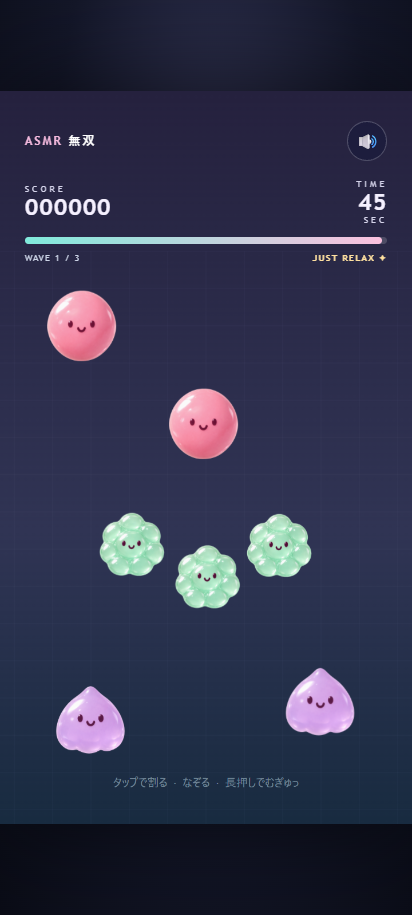
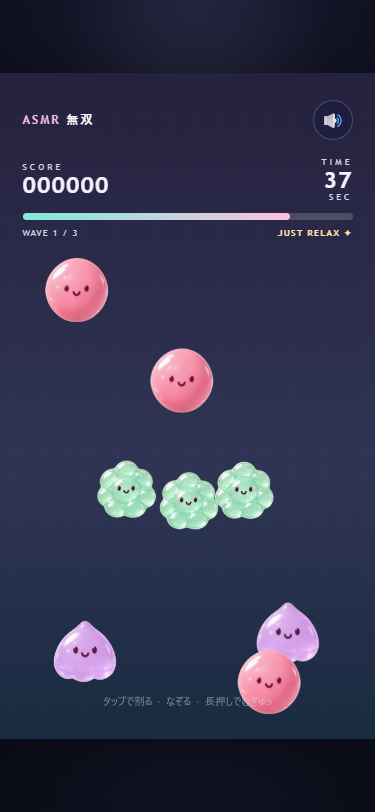
fix: keep tactile enemies in play and connect bubble chains

diff --git a/game.js b/game.js
@@ -33,10 +33,12 @@
   let uid = 1, lastKill = -5, spawnClock = 0, bossSpawned = false, bossDefeated = false;
   let wave = 1, freeze = 0, slow = 0, punch = 0, shake = 0, lastFrame = 0, soundOn = true, hudClock = 0;
   let lastStroke = { hits: 0, pitches: [] };
+  let trace = null;
   function createEnemy(type, x, y, stationary = false) {
     const r = art.radii[type];
+    const heading = rnd(0, TAU), speed = rnd(10, 22);
     return { id: uid++, type, x, y, r, stage: 0, act: type === 'boss' ? 1 : 0, layer: 0,
-      vx: stationary ? 0 : rnd(-9, 9), vy: stationary ? 0 : -rnd(28, 48), phase: rnd(0, TAU),
+      vx: 0, vy: 0, heading, speed, phase: rnd(0, TAU), motionTime: 0, opening: false, touched: false,
       jiggle: 0, velocity: 0, pressure: 0, glint: 0, crackFlash: 0, crack: null, age: stationary ? 1 : 0, stationary, dead: false, queued: false, entering: false, owner: null };
   }
   function addEnemy(type, x, y, stationary = false) { const e = createEnemy(type, x, y, stationary); enemies.push(e); return e; }
@@ -105,15 +107,17 @@
   function chainFrom(e) {
     const chain = [e]; let at = clock;
     for (let n = 0; n < chain.length; n++) for (const other of enemies) {
-      if (other.type === 'bubble' && !other.dead && !other.queued && other !== e && Math.hypot(other.x - chain[n].x, other.y - chain[n].y) < 155) {
+      if (other.type === 'bubble' && !other.dead && !other.queued && other !== e && Math.hypot(other.x - chain[n].x, other.y - chain[n].y) <= 3.6 * chain[n].r) {
         at += rnd(.04, .07); queue(other, at, 'chain', Math.min(12, chain.length * 2)); chain.push(other);
       }
     }
+    if (trace) trace.chains.push({ at: clock, ids: chain.map(e => e.id) });
   }
   function endStage(e) { return e.type === 'wax' ? 3 : e.type === 'ice' || e.type === 'jelly' ? 2 : e.type === 'boss' ? 13 : 1; }
   // Sole damage transition: art, debris, sound, ripple and hit-stop share this call.
   function fracture(e, stage, cause = 'tap', pitch = 0, contact = e) {
     if (!e || e.dead || stage <= e.stage) return false;
+    e.touched = true;
     const tap = local(e, contact.x, contact.y);
     const before = { ...e };
     e.stage = Math.min(stage, endStage(e)); e.queued = false; e.glint = .06; e.velocity = -5; e.jiggle = -.12;
@@ -140,6 +144,7 @@
     if (killed) {
       if (e.type !== 'jelly') flashes.push({ ...before, glint: .06 });
       e.dead = true; e.owner = null; e.pressure = 0; award(e);
+      if (trace) trace.destroyed.push({ id: e.id, at: clock, cause, type: e.type });
       if (['wax', 'jelly', 'boss'].includes(e.type)) {
         const duration = e.type === 'wax' ? JUICE.waxBulge : e.type === 'jelly' ? JUICE.jellyPuddle : JUICE.bossBulge;
         deathBeats.push({ ...e, age: 0, duration, phase: e.type === 'jelly' ? 'puddle' : 'core-bulge' });
@@ -165,7 +170,7 @@
   function targetAt(x, y) {
     if (y < PLAY_TOP) return null;
     for (let i = enemies.length - 1; i >= 0; i--) {
-      const e = enemies[i]; if (!e.dead && !e.queued && !e.entering && e.y - e.r >= PLAY_TOP && inside(e, x, y)) return e;
+      const e = enemies[i]; if (!e.dead && !e.queued && !e.entering && inside(e, x, y)) return e;
     }
     return null;
   }
@@ -196,7 +201,7 @@
       if (e.dead || e.queued || e.entering || p.hit.has(e.id)) continue;
       const a = local(e, x1, y1), b = local(e, x2, y2), dx = b.x - a.x, dy = b.y - a.y;
       const t = clamp((-a.x * dx - a.y * dy) / (dx * dx + dy * dy || 1), 0, 1);
-      if (e.y - e.r >= PLAY_TOP && Math.hypot(a.x + t * dx, a.y + t * dy) <= e.r * .98) hits.push({ e, t });
+      if (y1 + t * (y2 - y1) >= PLAY_TOP && Math.hypot(a.x + t * dx, a.y + t * dy) <= e.r * .98) hits.push({ e, t });
     }
     hits.sort((a, b) => a.t - b.t);
     for (const { e, t } of hits) { const pitch = pentatonic(p.hit.size); if (strike(e, 'slash', pitch, { x: x1 + (x2 - x1) * t, y: y1 + (y2 - y1) * t })) { p.hit.add(e.id); p.pitches.push(pitch); p.lastHit = { x: e.x, y: e.y - e.r }; } }
@@ -207,7 +212,7 @@
     const point = pos(ev), target = targetAt(point.x, point.y);
     const p = { id: ev.pointerId, x: point.x, y: point.y, startX: point.x, startY: point.y, start: clock, drag: false, done: false,
       target: target && target.owner === null ? target : null, hit: new Set(), pitches: [], creak: null, stroke: { points: [{ x: point.x, y: point.y, at: clock }], life: .4 } };
-    if (p.target) p.target.owner = p.id; pointers.set(p.id, p);
+    if (p.target) { p.target.owner = p.id; p.target.touched = true; } pointers.set(p.id, p);
   }
   function move(ev) {
     const p = pointers.get(ev.pointerId); if (state !== 'play' || !p) return;
@@ -242,10 +247,13 @@
     cancelPointers(); enemies.length = particles.length = texts.length = ripples.length = strokes.length = pending.length = flashes.length = deathBeats.length = 0;
     random = ASMR.AudioDSP.seeded(seed); elapsed = clock = score = kills = combo = maxCombo = 0;
     uid = 1; lastKill = -5; spawnClock = 1; bossSpawned = bossDefeated = false; wave = 1;
+    trace = null;
     freeze = slow = punch = shake = bloom = lastFrame = 0; lastStroke = { hits: 0, pitches: [] }; state = 'play';
     $('menu').classList.add('hidden'); $('result').classList.add('hidden'); $('hud').classList.remove('hidden');
-    addEnemy('wax', 355, 590); addEnemy('wax', 140, 425); addEnemy('bubble', 230, 805); addEnemy('bubble', 360, 860);
-    addEnemy('bubble', 490, 805); addEnemy('jelly', 160, 1110); addEnemy('jelly', 560, 1080); refreshHUD();
+    addEnemy('wax', 355, 590); addEnemy('wax', 140, 425); addEnemy('bubble', 253, 805); addEnemy('bubble', 360, 824);
+    addEnemy('bubble', 467, 805); addEnemy('jelly', 160, 1110); addEnemy('jelly', 560, 1080);
+    for (const e of enemies) e.opening = true;
+    refreshHUD();
   }
   function finish() {
     if (state !== 'play') return; state = 'result'; cancelPointers(); pending.length = texts.length = strokes.length = 0; freeze = slow = 0;
@@ -277,7 +285,22 @@
     for (const p of pointers.values()) { audio.stop(p.creak); p.creak = null; }
   });
   function compact(list, tick) { let n = 0; for (let i = 0; i < list.length; i++) if (tick(list[i])) list[n++] = list[i]; list.length = n; }
-  function spawnDrifter() {
+  function spawnBubbleGroup(slots) {
+    const r = art.radii.bubble, count = Math.min(slots, Math.floor(rnd(3, 6)));
+    const radius = 1.85 * r / (2 * Math.sin(Math.PI / count)), angle = rnd(0, TAU);
+    const offsets = Array.from({ length: count }, (_, i) => ({ x: Math.cos(angle + i * TAU / count) * radius, y: Math.sin(angle + i * TAU / count) * radius }));
+    for (let attempt = 0; attempt < 36; attempt++) {
+      const x = rnd(r + radius + 12, W - r - radius - 12), y = rnd(430 + radius, 1150 - radius);
+      if (offsets.some(p => enemies.some(e => !e.dead && Math.hypot(x + p.x - e.x, y + p.y - e.y) < .85 * (r + e.r)))) continue;
+      // A shared heading keeps a newly arrived cluster together as it wanders.
+      const heading = rnd(0, TAU), speed = rnd(10, 22), phase = rnd(0, TAU);
+      for (const p of offsets) { const e = addEnemy('bubble', x + p.x, y + p.y); e.heading = heading; e.speed = speed; e.phase = phase; }
+      return true;
+    }
+    return false;
+  }
+  function spawnDrifter(slots) {
+    if (slots >= 3 && rnd(0, 1) < .85 && spawnBubbleGroup(slots)) return;
     const types = bossDefeated ? ['bubble', 'jelly'] : wave === 1 ? ['wax', 'bubble', 'jelly'] : ['wax', 'bubble', 'jelly', 'ice'];
     const type = types[Math.floor(rnd(0, types.length))], side = rnd(0, 1), r = art.radii[type];
     let best, clearance = -Infinity;
@@ -288,8 +311,37 @@
       if (gap > clearance) { clearance = gap; best = { x, y }; }
     }
     if (clearance < 0) return;
-    const e = addEnemy(type, best.x, best.y);
-    if (side >= .6) { e.vx = side < .8 ? rnd(10, 22) : -rnd(10, 22); e.vy = -rnd(14, 26); }
+    addEnemy(type, best.x, best.y);
+  }
+  function openingRest(e) { return e.opening && !e.touched && elapsed < 8; }
+  function wander(e, dt) {
+    if (e.stationary || e.owner !== null || !dt) return;
+    const t = e.motionTime, rest = openingRest(e);
+    e.motionTime += dt;
+    // Integrate the bob's difference, not an accumulated displacement. Opening
+    // toys stay within a few units of their starting position until touched.
+    const bobX = 3 * (Math.sin(e.motionTime * .9 + e.phase) - Math.sin(t * .9 + e.phase));
+    const bobY = 4 * (Math.sin(e.motionTime * 1.2 + e.phase) - Math.sin(t * 1.2 + e.phase));
+    const minY = PLAY_TOP + e.r * .6, maxY = H - e.r * .4, margin = 100;
+    const edge = (p, low, high) => 36 * (Math.max(0, 1 - (p - low) / margin) ** 2 - Math.max(0, 1 - (high - p) / margin) ** 2);
+    let tx = 0, ty = 0;
+    if (!rest) {
+      const heading = e.heading + .4 * Math.sin(t * .18 + e.phase);
+      tx = Math.cos(heading) * e.speed + edge(e.x, e.r, W - e.r);
+      ty = Math.sin(heading) * e.speed + edge(e.y, minY, maxY);
+      for (const other of enemies) {
+        if (other === e || other.dead || other.type === 'boss') continue;
+        const dx = e.x - other.x, dy = e.y - other.y, distance = Math.hypot(dx, dy), gap = .85 * (e.r + other.r) - distance;
+        if (gap > 0) { const push = Math.min(35, gap * 2); tx += dx / (distance || 1) * push; ty += dy / (distance || 1) * push; }
+      }
+    }
+    const ease = 1 - Math.exp(-dt * 3);
+    e.vx += (tx - e.vx) * ease; e.vy += (ty - e.vy) * ease;
+    // Outward speed tends smoothly to zero at the bounds while steering turns
+    // inward. No position clamps, hard bounces, wrapping, or on-screen culling.
+    const step = (delta, p, low, high) => delta * Math.min(1, Math.max(0, delta < 0 ? p - low : high - p) / 50);
+    e.x += step(e.vx * dt + bobX, e.x, e.r, W - e.r);
+    e.y += step(e.vy * dt + bobY, e.y, minY, maxY);
   }
   function update(dt) {
     clock += dt; const stopped = freeze > 0;
@@ -335,20 +387,13 @@
         const t = clamp((clock - e.entryStart) / (e.entryEnd - e.entryStart), 0, 1);
         e.y = 515 + (660 - 515) * t * t;
         if (t === 1) { e.entering = false; e.y = 660; e.jiggle = -.30; e.velocity = 2; audio.play('boss_thud'); ripple(e, true); requestStop(.06, true); }
-      } else if (e.owner === null && e.type !== 'boss') { e.x += e.vx * enemySim; e.y += e.vy * enemySim; }
+      } else if (e.type !== 'boss') wander(e, enemySim);
       e.velocity += (-170 * e.jiggle - 13 * e.velocity) * enemySim;
       e.jiggle = clamp(e.jiggle + e.velocity * enemySim, -.40, .30); e.glint = Math.max(0, e.glint - dt); e.crackFlash = Math.max(0, e.crackFlash - dt);
     }
-    // Gentle lateral separation; upward drift remains continuous and predictable.
-    for (let i = 0; i < enemies.length; i++) for (let j = i + 1; j < enemies.length; j++) {
-      const a = enemies[i], b = enemies[j];
-      if (a.dead || b.dead || a.stationary || b.stationary || a.owner !== null || b.owner !== null) continue;
-      const dy = a.y - b.y, distance = Math.hypot(a.x - b.x, dy), gap = .85 * (a.r + b.r) - distance;
-      if (gap > 0) { const push = Math.min(gap * .5, enemySim * 35) * (a.x > b.x ? 1 : -1); a.x = clamp(a.x + push, a.r, W - a.r); b.x = clamp(b.x - push, b.r, W - b.r); }
-    }
-    compact(enemies, e => !e.dead && (e.type === 'boss' || (e.y > PLAY_TOP + e.r && e.y < H + 150 && e.x > -150 && e.x < W + 150)));
+    compact(enemies, e => !e.dead);
     spawnClock -= dt; const cap = bossDefeated ? 6 : wave === 1 ? 8 : wave === 2 ? 10 : 12;
-    if ((!bossSpawned || bossDefeated) && spawnClock <= 0 && live < cap) { spawnDrifter(); spawnClock = bossDefeated ? 1.2 : .7; }
+    if ((!bossSpawned || bossDefeated) && spawnClock <= 0 && live < cap) { spawnDrifter(cap - live); spawnClock = bossDefeated ? 1.2 : .7; }
     hudClock -= dt; if (hudClock <= 0) { refreshHUD(); hudClock = .1; }
   }
   // Cached background/gradients; no per-object shadows in the render loop.
@@ -439,7 +484,7 @@
     if (!artReady) return;
     const sprite = art.get(e), { sx, sy, angle } = shape(e), pressure = e.pressure;
     ctx.save(); ctx.translate(e.x, e.y); ctx.rotate(angle); ctx.scale(sx, sy);
-    if (e.type !== 'boss') ctx.globalAlpha = clamp((e.y - PLAY_TOP - e.r) / 40, 0, 1) * Math.min(1, e.age / .18);
+    if (e.type !== 'boss') ctx.globalAlpha = Math.min(1, e.age / .18);
     if (flashOnly) ctx.globalAlpha *= e.glint / .06;
     if (sprite) {
       if (flashOnly) {
@@ -556,6 +601,7 @@
     update(dt);
     if (profiling) { window.__asmrTest.heavyScene(); profileMinEnemies = Math.min(profileMinEnemies, enemies.filter(e => !e.dead).length); }
     draw();
+    if (trace && trace.frames.length < 10000) trace.frames.push({ at: clock, elapsed, enemies: enemies.filter(e => !e.dead).map(e => ({ id: e.id, type: e.type, x: e.x, y: e.y, r: e.r })) });
     if (profiling && frameTimes.length < 4000) frameTimes.push(performance.now() - before);
     requestAnimationFrame(frame);
   }
@@ -567,9 +613,10 @@
       popups: texts.map(t => ({ word: t.word, size: t.size, life: t.life, ...popupBox(t) })),
       particleFx: [...new Set(particles.map(p => p.fx))], softRings: ripples.filter(r => r.soft).length,
       enemies: enemies.filter(e => !e.dead).map(e => ({ id: e.id, type: e.type, stage: e.stage, act: e.act, layer: e.layer, hp: endStage(e) - e.stage,
-        x: e.x, y: e.y, r: e.r, sprite: art.key(e), pressure: e.pressure, jiggle: e.jiggle, glint: e.glint, crack: e.crack, crackFlash: e.crackFlash, entering: e.entering })) }),
+        x: e.x, y: e.y, r: e.r, sprite: art.key(e), pressure: e.pressure, jiggle: e.jiggle, glint: e.glint, crack: e.crack, crackFlash: e.crackFlash, entering: e.entering, queued: e.queued, resting: openingRest(e) })) }),
     start: begin, hitAt: (x, y) => strike(targetAt(x, y), 'tap', 0, { x, y }),
-    spawn: (type, x, y) => { if (!DRAW[type] || type === 'boss') throw new Error('Use skipTo(32) for the boss'); return addEnemy(type, x, y, true).id; },
+    spawn: (type, x, y, stationary = true) => { if (!DRAW[type] || type === 'boss') throw new Error('Use skipTo(32) for the boss'); return addEnemy(type, x, y, stationary).id; },
+    trace: active => { if (active) trace = { frames: [], destroyed: [], chains: [] }; else { const result = trace; trace = null; return result; } },
     clear: () => { cancelPointers(); enemies.length = pending.length = particles.length = texts.length = ripples.length = strokes.length = flashes.length = deathBeats.length = 0; freeze = slow = bloom = 0; spawnClock = 60; },
     skipTo: seconds => { elapsed = clamp(seconds, 0, TOTAL); checkTime(); refreshHUD(); }, end: finish, audioStats: () => audio.stats(),
     testAudioBurst: () => { for (const name of Object.keys(ASMR.AudioDSP.SPECS)) for (let i = 0; i < 6; i++) audio.play(name); }, cancelInput: cancelPointers,

diff --git a/README.md b/README.md
@@ -15,10 +15,10 @@
 ## 素材と45秒の流れ
 
 - ロウ：3タップ。ツヤのある丸い殻 → 白い亀裂 → 殻が落ちてクリームの芯 → 芯が90ms膨らんで飛散。長押しなら一度で潰せる。
-- プチプチ：1タップで破裂。155px以内でつながる泡を40–70ms刻みで連鎖させる。
+- プチプチ：1タップで破裂。中心間距離3.6×半径（泡58なら208.8）以内でつながる泡をBFSでたどり、40–70ms刻みで連鎖させる。3体以上の空きがある追加出現では85%の確率で3〜5体の密な群れを試みる。隣同士は直径の92.5%間隔、既存の敵とは半径の和の85%以上を空け、空きがなければ通常の単体出現を試す。
 - ゼリー：低いしずく形。最初のタップでバネ振動とむにゅ音、次のタップか長押しで潰れる。
 - 氷：角ばった結晶。1タップで白い亀裂、2タップで破片と響き。
-- 小敵は最大8 / 10 / 12体。半径はロウ64 / 泡58 / ゼリー62 / 氷60（720×1280座標）。開始時から下部にも配置し、追加は下部 `y=990–1150` または左右 `y=440–1150` に短くフェードインして上昇する。空き位置を選び、近づいた小敵を穏やかに左右へ離す。プレイ領域の上端は `y=300`、HUD手前でフェードアウトする。
+- 小敵は最大8 / 10 / 12体。半径はロウ64 / 泡58 / ゼリー62 / 氷60（720×1280座標）。開幕7体は最初の8秒、または触れるまで小さく揺れるだけで待つ。その後は10〜22 u/sを基準に揺れながら漂い、端と近隣の敵を見て滑らかに進路を変える。中心の範囲は `x=[r,720−r]`、`y=[300+0.6r,1280−0.4r]`。上端でも透明化・削除されず、タップできる。密度は出現上限で制御し、未破壊の敵は退場させない。単体の追加は下部 `y=990–1150` または左右 `y=440–1150`、泡の群れはプレイ領域の空きに短くフェードインする。
 - 32秒でボス。残る小敵を得点つきの連続ポップで消し、追加出現を停止。半径190、中央 `y=660` へ`y=515` からHUD下で短く落下し、着地で潰れと低音＋中域のthud。殻3層（各3ヒット）→ 芯（4タップまたは長押し1回）→ 大きな解放。殻への長押しは1ヒット。
 - 撃破後は軽いボーナス敵。45秒で結果へ進む。ボス未撃破の減点はない。
 
@@ -66,8 +66,9 @@ node tools/render-sfx.cjs
 python tools/analyze_sfx.py assets_audio_preview screenshots/sfx_spectrograms.png
 ```
 
-- `npm test` は **SFXゲート → smoke → perf** の順で実行する。Node + Playwright、`chromium.launch({ channel: 'chrome', headless: true })`、通信を無効にした `file://` を使う。Python版 `tests/smoke.py` は `tests/smoke.mjs` に置き換えた。
+- `npm test` は **SFXゲート → smoke → drift-chain → perf** の順で実行する。Node + Playwright、`chromium.launch({ channel: 'chrome', headless: true })` を使用。smoke / perf は通信を無効にした `file://`、drift-chain は自動起動・終了するループバックHTTPサーバーを使う。Python版 `tests/smoke.py` は `tests/smoke.mjs` に置き換えた。
 - メニュー、音声の初期化、素材段階、泡の連鎖間隔、実マウスのスワイプ・長押し・早離し、ボスの全段階、ミュート、声数上限、45秒終了・再挑戦を確認。360×640 / 412×915 は mobile + hasTouch の `touchscreen.tap` と回転を確認。console/page errorと外部通信は0件を要求。
+- `tests/drift-chain.mjs` は375×812・HTTPで、開幕ロウの8秒実時間生存と20秒無入力の全フレーム（ID・位置・境界・消失）を検証。開幕群への実タッチ1回で3体が0.3秒以内に破裂し、seed=1の通常45秒を泡のみの実タッチで進めて3体以上の連鎖が3回以上起きることを確認する。自然出現群の大きさ・密着・重なりと密度上限もチェック。補助の仮想時計テストでは四辺・角からの復帰、待機の早期解除、上端へのタップ、200単位のBFS接続と220単位の非接続を確認する。`drift-chain.json` に集計、`play.png` / `swipe.png` に同サイズの実プレイ画面を保存する。
 - `screenshots/` に title / play / swipe / hold / boss_act1 / boss_damaged / boss_core / boss_final / result、wax_core・モバイル画像、全小敵状態のsprites_states、hitbox_debug、sprite_fracture、missing_sprite_fallback / missing_fx_fallback、soundboardのPC・モバイル画像を保存。実ファイルを欠落させた一時コピーでも進行と1回の警告を検証する（Chrome自身の意図したERR_FILE_NOT_FOUND診断は別扱い）。
 - `screenshots/wax_frames.png` は3タップ×6フレーム、`boss_final_frames.png` は最終破断18フレーム（6列×3行）。`tests/frame-strips.mjs` で `page.clock.install()` / `pauseAt()`、実マウスタップ後の最初の描画から `runFor(33)` 刻みで取得。ラベルの時刻は入力からの進行時間。`frame_states.json` に同時刻の芯タイマー・FX・bloom・ringを保存。
 - `assets_audio_preview/synth_<name>_<1..3>.wav` に48kHz・16bit・monoの全51音を書き出す。ゲームはこのWAVを読み込まず、同じDSPをブラウザで実行する。
@@ -76,13 +77,16 @@ python tools/analyze_sfx.py assets_audio_preview screenshots/sfx_spectrograms.pn
 - `tests/perf.mjs` はCDPの `Emulation.setCPUThrottlingRate {rate:4}` で10秒の連続スワイプ。各フレーム12小敵＋ボスを補充し、音ON・破片込みの `update+draw` を `performance.now()` で測る。補充処理も計測内。p95<8msを要求し、フレーム数・平均・p95・最大・最少敵数・最大粒子数を `screenshots/perf.json` に保存する。GPU描画完了・イベント処理・実機FPSの測定ではない。
 - T3最終計測（Chrome 158、4×CPU、10.14秒、731フレーム・36スワイプ）: 平均3.97ms / p95 5.60ms / 最大32.20ms。全フレーム13体以上、粒子最大360。p95目標は達成、単発の最大値は16.7msを超える。
 - T5最終計測（Chrome 158.0.8127.36、4×CPU、10.26秒、739フレーム・31スワイプ）: 平均4.44ms / p95 **6.40ms < 8ms** / 最大8.50ms。最少13敵・粒子最大360。`npm run check` と `npm test`（51音のSFXゲート・smoke 20項目・perf）PASS。FX欠落、90ms芯、popup非重複、soundboardも検証。
-- テスト用 `window.__asmrTest` に getState（stage/act含む）、hitAt、spawn、skipTo、end、audioStats 等。`?seed=1` で素材配置と音の変化を再現可能。長押し・タッチは実入力で検証。
+- T6最終計測（Chrome 158.0.8127.36、4×CPU、10.05秒、716フレーム・28スワイプ）: 平均4.55ms / p95 **6.50ms < 8ms** / 最大48.90ms。最少13敵・粒子最大350。`npm run check` と `npm test`（51音・smoke 20項目・HTTPのT6回帰・perf）PASS。開幕ロウの実時間8秒生存、20秒・1508フレームで消失0、開幕3泡120ms、通常45秒の泡だけタップで3体以上の連鎖19回を確認。単発の最大フレーム時間は16.7msを超えており、Android実機の滑らかさを保証する測定ではない。
+- テスト用 `window.__asmrTest` に getState（stage/act/queued/resting含む）、hitAt、spawn、skipTo、end、audioStats 等。`trace(true)` で描画フレームごとのID・座標と破壊・連鎖イベントを採取し、`trace(false)` で回収・停止する（通常プレイとperfでは無効）。`spawn(type,x,y,false)` は移動する検証用の敵。`?seed=1` で素材配置と音の変化を再現可能。長押し・タッチは実入力で検証。
 
 ## 残る確認
 
 自動テストは人間の試遊・耳チェックを代用しない。Android実機の60fps、熱、入力遅延、振動、スピーカー／イヤホンでの音量・快適さは未検証。初回のDSP生成時間も実機で確認が必要。音源単体の検査は全ミックスの音圧・聴感を保証しない。4倍CPU制限もAndroid実機の代用ではなく、最大フレーム時間のスパイクは別に記録する。亀裂は白線で補強済み。90msの芯の膨らみが実機の連打でも伝わるかは人間の試遊で確認する。公開は行っていない。
 
 `ORCHESTRATOR_BRIEF.md` 冒頭の「v0.1」「Python smoke」「リアルタイム仮音」は出発点の記述。このv0.2では本READMEのNodeテスト・事前生成DSPを採用している。ゼリーは今回の具体的な操作仕様（1回目で揺れ、次のタップで潰す）に従っている。
+
+T6では実機試遊に基づく指示を優先し、旧READMEの155px連鎖・上昇移動・HUD手前のフェード退場と、smokeの上昇方向限定の期待値を更新。ボスの32秒登場・得点つき連続ポップ・殻と芯・ボーナス移行は維持。
 
 T3では旧READMEの「画像未統合・ボスy=560・ピーク正規化・600粒子」を今回の指示に沿って更新。`assets/ART_LOG.md` のT2範囲外の記述は履歴として維持。各画像節の `Tool: undefined` / `Date: undefined` は元ログの欠落で、冒頭のimage_gen・制作日2026-11-22という記録を参照しているが、個別実行日時は未確認。
 
